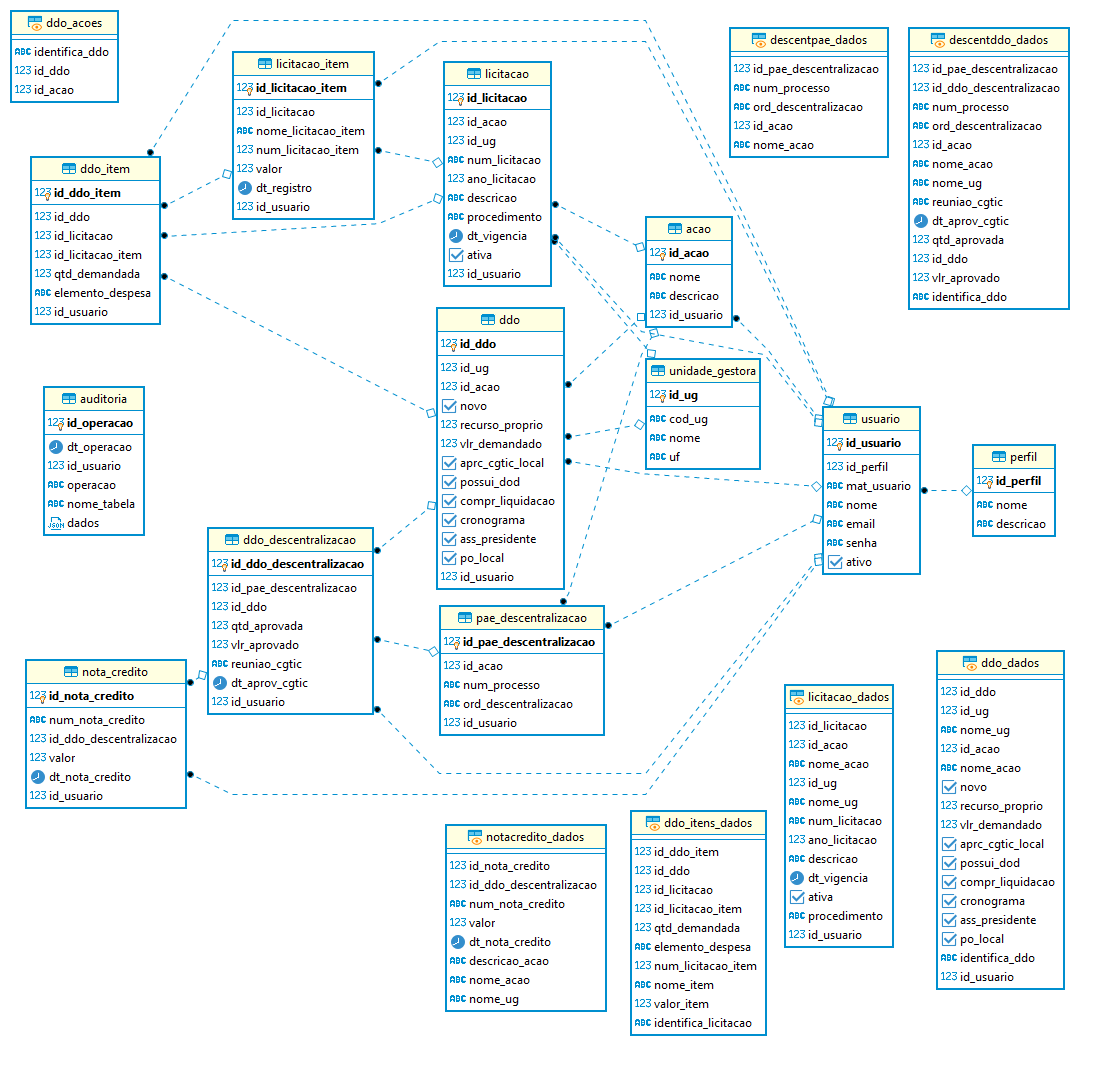
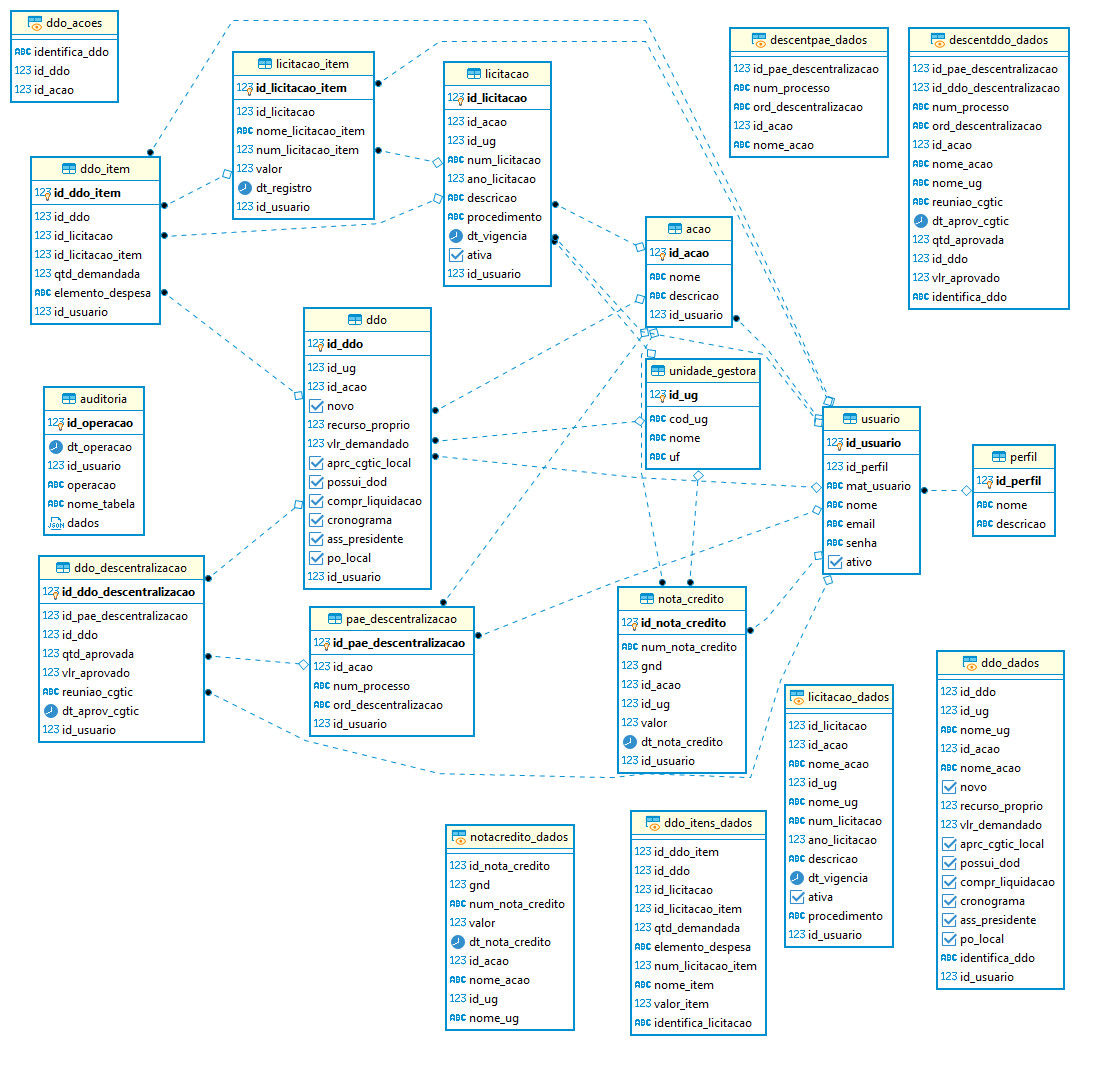
CGGOV-3660 - Backend

diff --git a/backend/src/controllers/NotaCreditoController.js b/backend/src/controllers/NotaCreditoController.js
@@ -5,7 +5,9 @@ module.exports = {
   async create(request, response) {
     const {
       num_nota_credito,
-      id_ddo_descentralizacao,
+      gnd,
+      id_acao,
+      id_ug,
       valor,
       dt_nota_credito,
     } = request.body;
@@ -15,7 +17,9 @@ module.exports = {
       .returning("id_nota_credito")
       .insert({
         num_nota_credito: num_nota_credito,
-        id_ddo_descentralizacao: id_ddo_descentralizacao,
+        gnd: gnd,
+        id_acao: id_acao,
+        id_ug: id_ug,
         valor: valor,
         dt_nota_credito: dt_nota_credito,
         id_usuario: id_usuario,
@@ -55,7 +59,9 @@ module.exports = {
   async update(request, response) {
     const {
       num_nota_credito,
-      id_ddo_descentralizacao,
+      gnd,
+      id_acao,
+      id_ug,
       valor,
       dt_nota_credito,
     } = request.body;
@@ -69,7 +75,9 @@ module.exports = {
       })
       .update({
         num_nota_credito: num_nota_credito,
-        id_ddo_descentralizacao: id_ddo_descentralizacao,
+        gnd: gnd,
+        id_acao: id_acao,
+        id_ug: id_ug,
         valor: valor,
         dt_nota_credito: dt_nota_credito,
         id_usuario: id_usuario,

diff --git a/frontend/src/app/pages/nota-credito/nota-credito.model.ts b/frontend/src/app/pages/nota-credito/nota-credito.model.ts
@@ -1,13 +1,15 @@
 export interface NC {
-  id_nota_credito?: number
-  id_descentralizacao: number
-  num_nota_credito: string
-	valor: number
-	dt_nota_credito: Date
-  ug_favorecida: number
-  descricao_acao?: string
-  nome_acao?: string
-  nome_ug?: string
-  cod_ug?: string
-  id_usuario?: number
+  // campos da tabela
+  id_nota_credito?: number;
+  gnd: number;
+  num_nota_credito: string;
+  id_ddo_descentralizacao: number;
+  valor: number;
+  dt_nota_credito: Date;
+  id_usuario?: number;
+
+  // campos da view
+  descricao_acao?: string;
+  nome_acao?: string;
+  nome_ug?: string;
 }

diff --git a/frontend/src/app/pages/nota-credito/nota-credito-form/nota-credito-form.component.ts b/frontend/src/app/pages/nota-credito/nota-credito-form/nota-credito-form.component.ts
@@ -15,10 +15,9 @@ export class NotaCreditoFormComponent implements OnInit {
   formulario: FormGroup;
   ntCredito: NC = {
     num_nota_credito: "",
-    id_descentralizacao: null,
+    id_ddo_descentralizacao: null,
     valor: null,
     dt_nota_credito: null,
-    ug_favorecida: null,
   };
 
   ugs: Ug[] = null;
